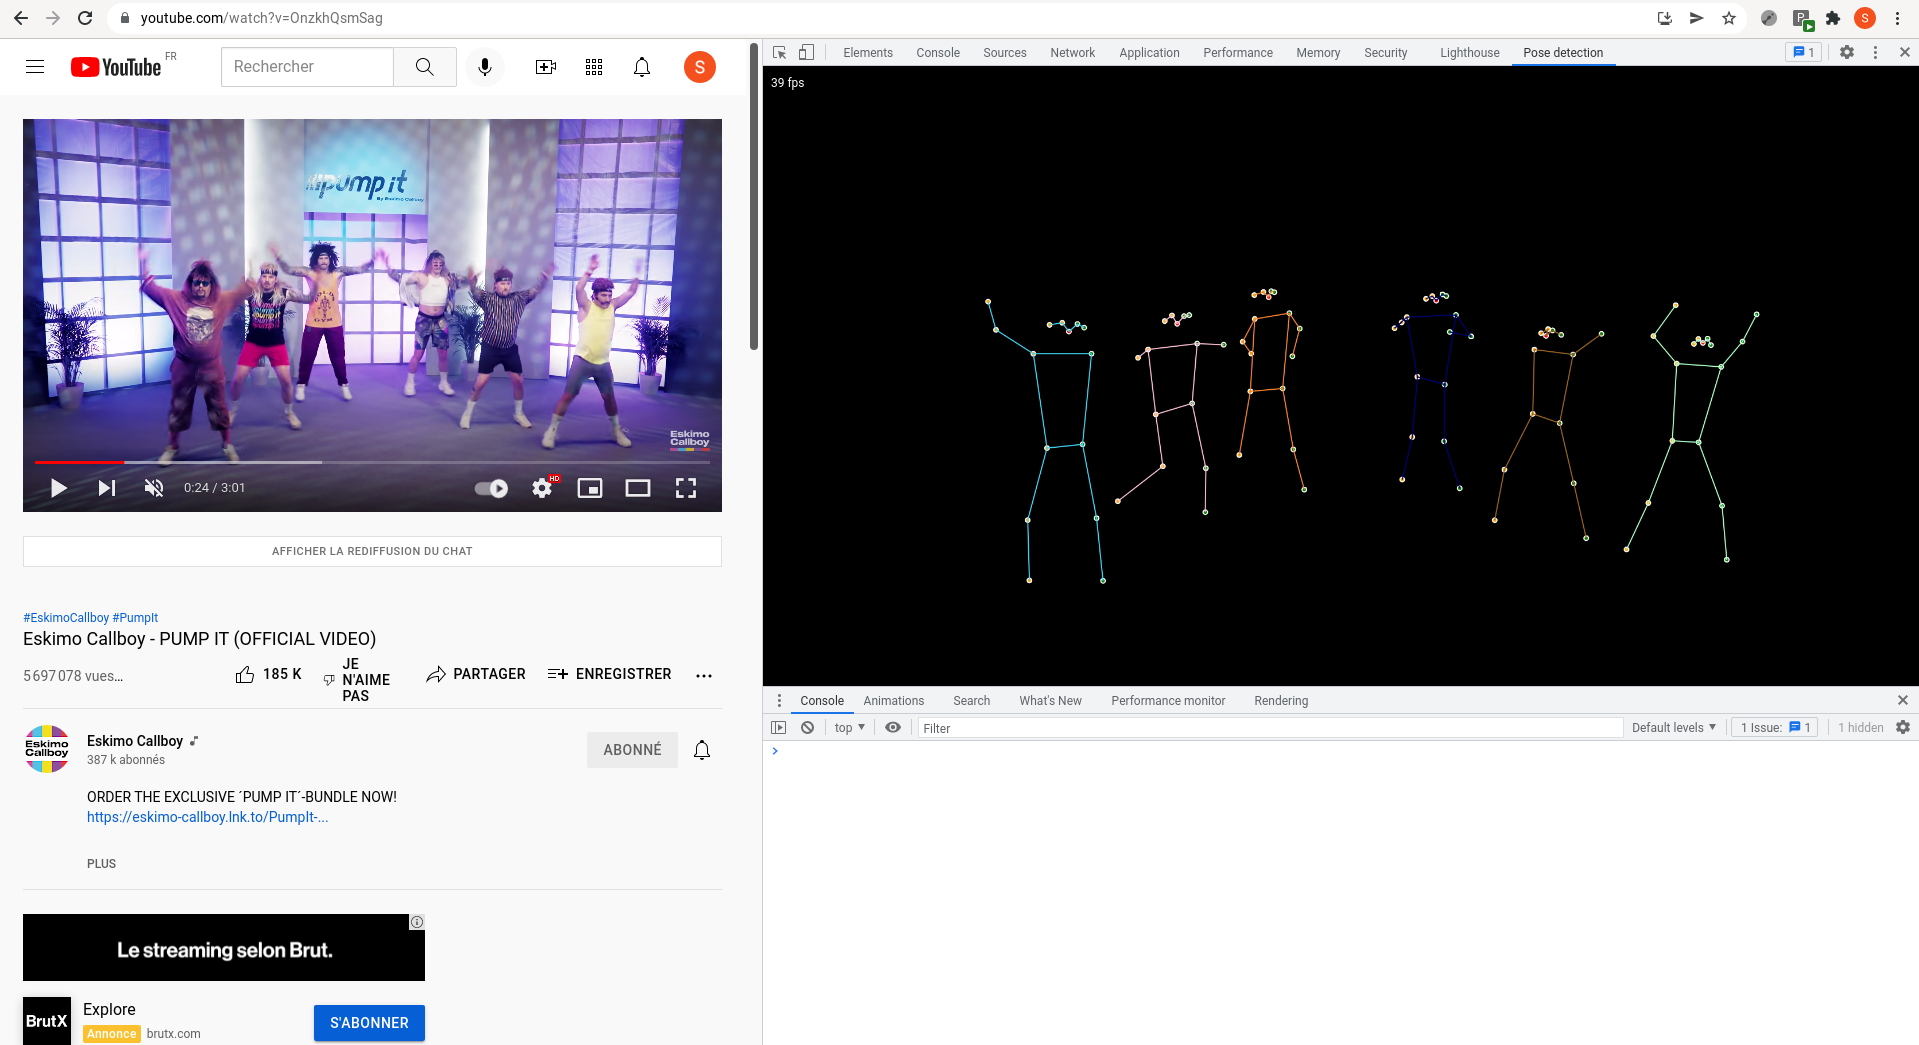
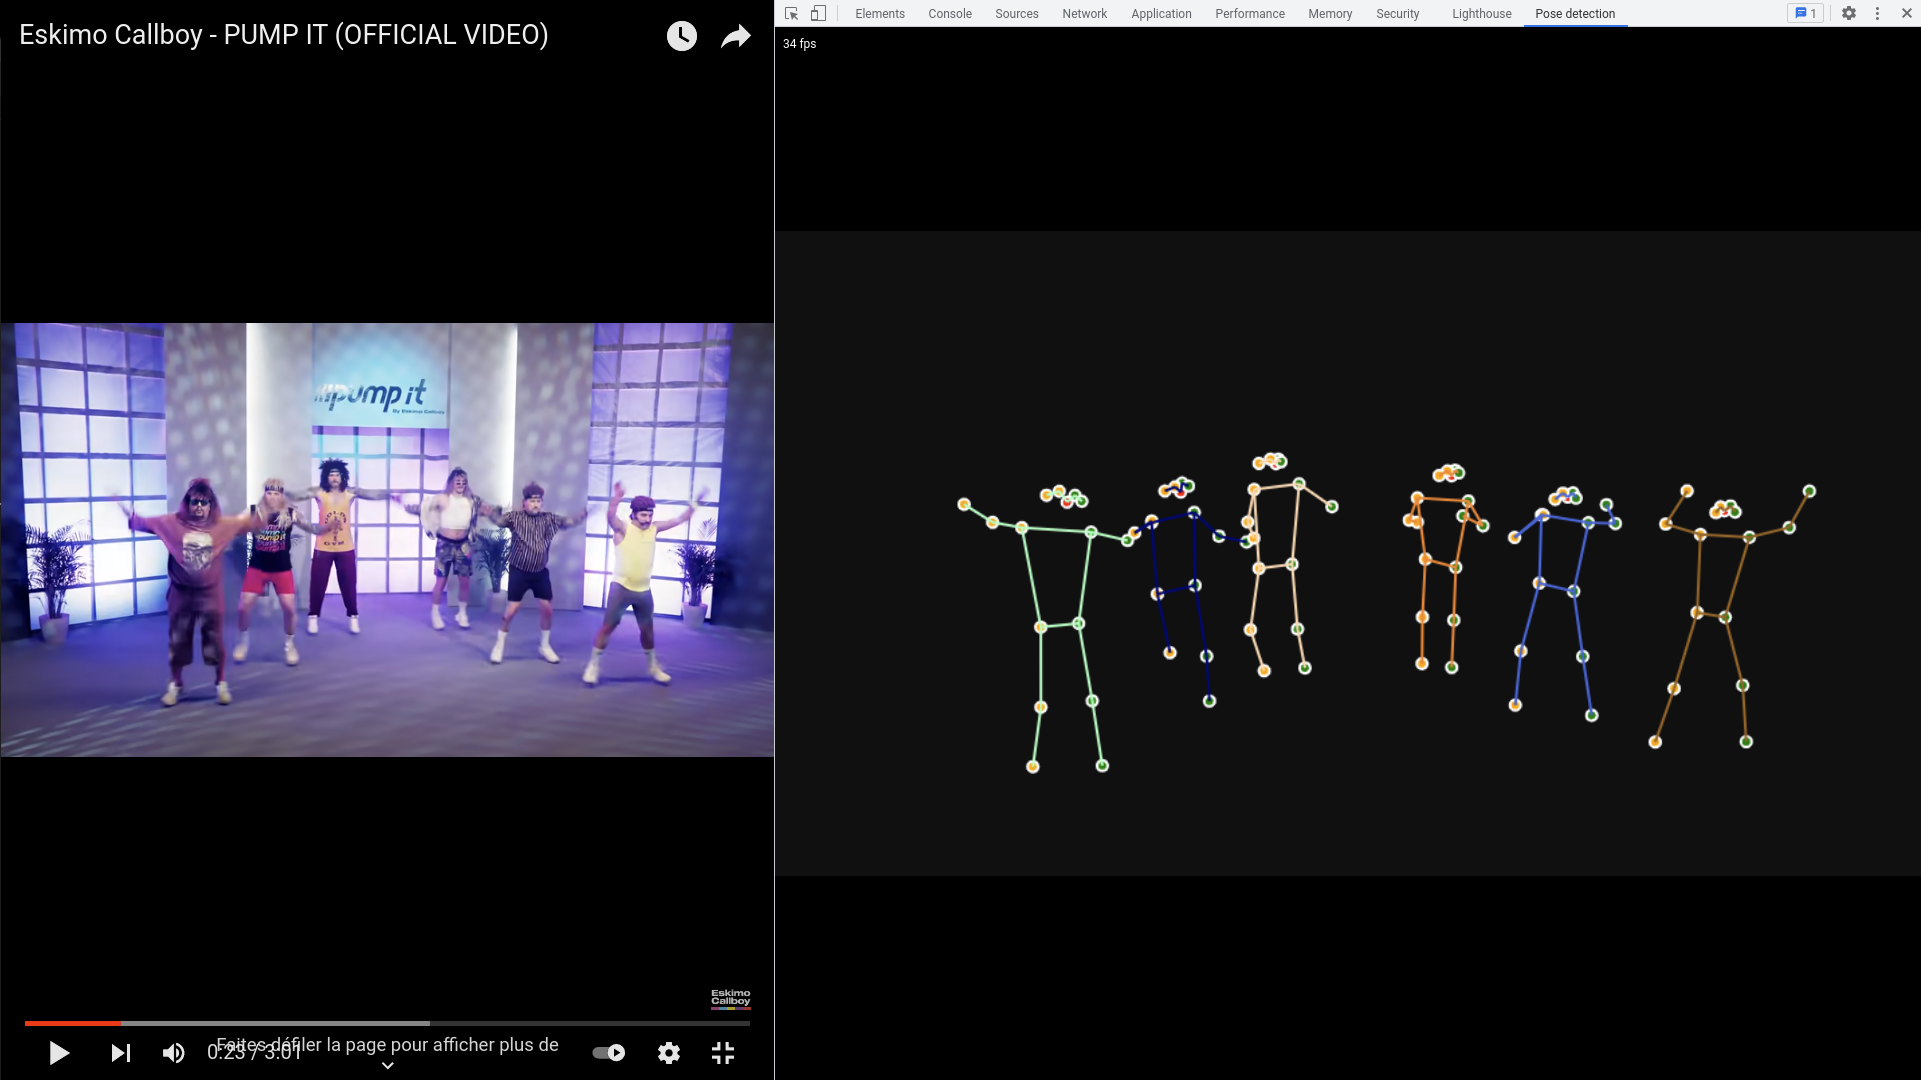
Bootstrap objects detection

diff --git a/src/content-script-objects.ts b/src/content-script-objects.ts
@@ -1,0 +1,95 @@
+import { load, ObjectDetection } from '@tensorflow-models/coco-ssd'
+import '@tensorflow/tfjs-backend-cpu'
+import '@tensorflow/tfjs-backend-webgl'
+import {
+  DetectionMessage,
+  DetectionStatus,
+  DetectionStatusMessage,
+  DetectionStatusResponse,
+  ObjectsMessage,
+  Video,
+} from './types'
+
+let status: DetectionStatus = 'loading'
+let detector: ObjectDetection | undefined
+let video: Video | undefined
+let videoElement: HTMLVideoElement | undefined
+let animationFrame = -1
+
+chrome.runtime.onMessage.addListener(
+  (message: DetectionMessage, _sender, sendResponse) => {
+    switch (message.type) {
+      case 'RetrieveDetectionStatus':
+        const detectionStatusResponse: DetectionStatusResponse = {
+          status,
+          video,
+        }
+        sendResponse(detectionStatusResponse)
+        break
+      case 'StartDetection':
+        video = message.video
+        videoElement = document.querySelectorAll('video')[video.index]
+        if (status === 'loaded' || status === 'error') {
+          startObjectDetection()
+        }
+        break
+      case 'StopDetection':
+        status = 'loaded'
+        cancelAnimationFrame(animationFrame)
+        sendStatus()
+        break
+    }
+  },
+)
+
+loadObjectDetection()
+
+async function loadObjectDetection() {
+  sendStatus()
+  detector = await load()
+  if (videoElement) {
+    startObjectDetection()
+  } else {
+    status = 'loaded'
+    sendStatus()
+  }
+}
+
+function startObjectDetection() {
+  console.debug('Starting object detection', videoElement)
+  status = 'running'
+  animationFrame = requestAnimationFrame(detectObjects)
+  sendStatus()
+}
+
+async function detectObjects() {
+  if (!detector || !videoElement) {
+    return
+  }
+  if (status !== 'running') {
+    return
+  }
+  if (videoElement.readyState < 2) {
+    animationFrame = requestAnimationFrame(detectObjects)
+    return
+  }
+  try {
+    const objects = await detector.detect(videoElement)
+    const message: ObjectsMessage = { type: 'Objects', objects }
+    chrome.runtime.sendMessage(message)
+    animationFrame = requestAnimationFrame(detectObjects)
+  } catch (error) {
+    console.error(error)
+    status = 'error'
+    sendStatus()
+  }
+}
+
+function sendStatus() {
+  const message: DetectionStatusMessage = {
+    type: 'DetectionStatus',
+    status,
+    video,
+  }
+  chrome.runtime.sendMessage(message)
+}

diff --git a/src/panel.tsx b/src/panel.tsx
@@ -3,8 +3,16 @@ import { useEffect, useRef, useState } from 'preact/hooks'
 import useActiveTab from './hooks/useActiveTab'
 import useDetectionStatus from './hooks/useDetectionStatus'
 import './panel.css'
-import { DetectionMessage } from './types'
+import { DetectionMessage, InitDevtoolsMessage } from './types'
+import { renderObjects } from './utils/object'
 import { renderPoses } from './utils/pose'
+
+const port = chrome.runtime.connect({ name: 'devtools' })
+const message: InitDevtoolsMessage = {
+  type: 'InitDevtools',
+  tabId: chrome.devtools.inspectedWindow.tabId,
+}
+port.postMessage(message)
 
 function Panel() {
   const activeTab = useActiveTab()
@@ -20,7 +28,7 @@ function Panel() {
     if (!ctx || !video) {
       return
     }
-    if (message.type !== 'Poses') {
+    if (message.type !== 'Poses' && message.type !== 'Objects') {
       return
     }
     const time = Date.now()
@@ -32,12 +40,16 @@ function Panel() {
       previousTimeRef.current = time
       frameCountRef.current = 0
     }
-    renderPoses(ctx, message.poses)
+    if (message.type === 'Poses') {
+      renderPoses(ctx, message.poses)
+    } else if (message.type === 'Objects') {
+      renderObjects(ctx, message.objects)
+    }
   }
 
   useEffect(() => {
-    chrome.runtime.onMessage.addListener(handleMessage)
-    return () => chrome.runtime.onMessage.removeListener(handleMessage)
+    port.onMessage.addListener(handleMessage)
+    return () => port.onMessage.removeListener(handleMessage)
   }, [ctx, video])
 
   return (

diff --git a/src/background.ts b/src/background.ts
@@ -1,10 +1,44 @@
 import { DetectionMessage } from './types'
 
+const connections: { [tabId: number]: chrome.runtime.Port } = {}
+
+chrome.runtime.onConnect.addListener((port) => {
+  function handleMessage(message: DetectionMessage) {
+    if (message.type !== 'InitDevtools') {
+      return
+    }
+    console.debug('Devtools connected', message)
+    connections[message.tabId] = port
+  }
+
+  port.onMessage.addListener(handleMessage)
+
+  port.onDisconnect.addListener((port) => {
+    port.onMessage.removeListener(handleMessage)
+
+    for (const tabId of Object.keys(connections).map(Number)) {
+      if (connections[tabId] === port) {
+        console.debug('Devtools disconnected', { tabId })
+        delete connections[tabId]
+        break
+      }
+    }
+  })
+})
+
 chrome.runtime.onMessage.addListener((message: DetectionMessage, sender) => {
+  const tabId = sender.tab?.id
+  if (tabId === undefined) {
+    return
+  }
+
+  if (tabId in connections) {
+    connections[tabId].postMessage(message)
+  }
+
   if (message.type !== 'DetectionStatus') {
     return
   }
-  const tabId = sender.tab?.id
   switch (message.status) {
     case 'running':
       chrome.action.setBadgeText({ tabId, text: ' ▶' })

diff --git a/src/types.ts b/src/types.ts
@@ -1,3 +1,4 @@
+import { DetectedObject } from '@tensorflow-models/coco-ssd'
 import { Pose } from '@tensorflow-models/pose-detection'
 
 export type Video = {
@@ -9,6 +10,11 @@ export type Video = {
 }
 
 export type DetectionStatus = 'loading' | 'loaded' | 'running' | 'error'
+
+export type InitDevtoolsMessage = {
+  type: 'InitDevtools'
+  tabId: number
+}
 
 export type RetrieveDetectionStatusMessage = {
   type: 'RetrieveDetectionStatus'
@@ -34,12 +40,19 @@ export type PosesMessage = {
   poses: Pose[]
 }
 
+export type ObjectsMessage = {
+  type: 'Objects'
+  objects: DetectedObject[]
+}
+
 export type DetectionMessage =
+  | InitDevtoolsMessage
   | RetrieveDetectionStatusMessage
   | DetectionStatusMessage
   | StartDetectionMessage
   | StopDetectionMessage
   | PosesMessage
+  | ObjectsMessage
 
 export type DetectionStatusResponse = {
   status: DetectionStatus

diff --git a/src/utils/object.ts b/src/utils/object.ts
@@ -1,0 +1,23 @@
+import { DetectedObject } from '@tensorflow-models/coco-ssd'
+
+export function renderObjects(
+  ctx: CanvasRenderingContext2D,
+  objects: DetectedObject[],
+) {
+  ctx.fillStyle = '#101010'
+  ctx.fillRect(0, 0, ctx.canvas.width, ctx.canvas.height)
+  ctx.font = '20px Arial'
+  for (const object of objects) {
+    ctx.beginPath()
+    ctx.rect(...object.bbox)
+    ctx.lineWidth = 1
+    ctx.strokeStyle = 'green'
+    ctx.fillStyle = 'green'
+    ctx.stroke()
+    ctx.fillText(
+      object.score.toFixed(3) + ' ' + object.class,
+      object.bbox[0],
+      object.bbox[1] > 20 ? object.bbox[1] - 10 : 20,
+    )
+  }
+}

diff --git a/src/popup.tsx b/src/popup.tsx
@@ -44,7 +44,7 @@ function Popup() {
       case undefined:
         await chrome.scripting.executeScript({
           target: { tabId: activeTab.id! },
-          files: ['out/content-script.js'],
+          files: ['out/content-script-poses.js'],
         })
       case 'loaded':
       case 'error':
@@ -86,7 +86,7 @@ function Popup() {
       </select>
       {status === 'error' ? (
         <span>
-          Failed to start pose detection. Try to open{' '}
+          Failed to start detection. Try to open{' '}
           <a href={videos[selectedVideoIndex].src} target="_blank">
             the video
           </a>{' '}

diff --git a/src/utils/pose.ts b/src/utils/pose.ts
@@ -55,7 +55,8 @@ const colorPalette = [
 ]
 
 export function renderPoses(ctx: CanvasRenderingContext2D, poses: Pose[]) {
-  ctx.clearRect(0, 0, ctx.canvas.width, ctx.canvas.height)
+  ctx.fillStyle = '#101010'
+  ctx.fillRect(0, 0, ctx.canvas.width, ctx.canvas.height)
   for (const pose of poses) {
     drawKeypoints(ctx, pose.keypoints)
     drawSkeleton(ctx, pose.keypoints, pose.id)
